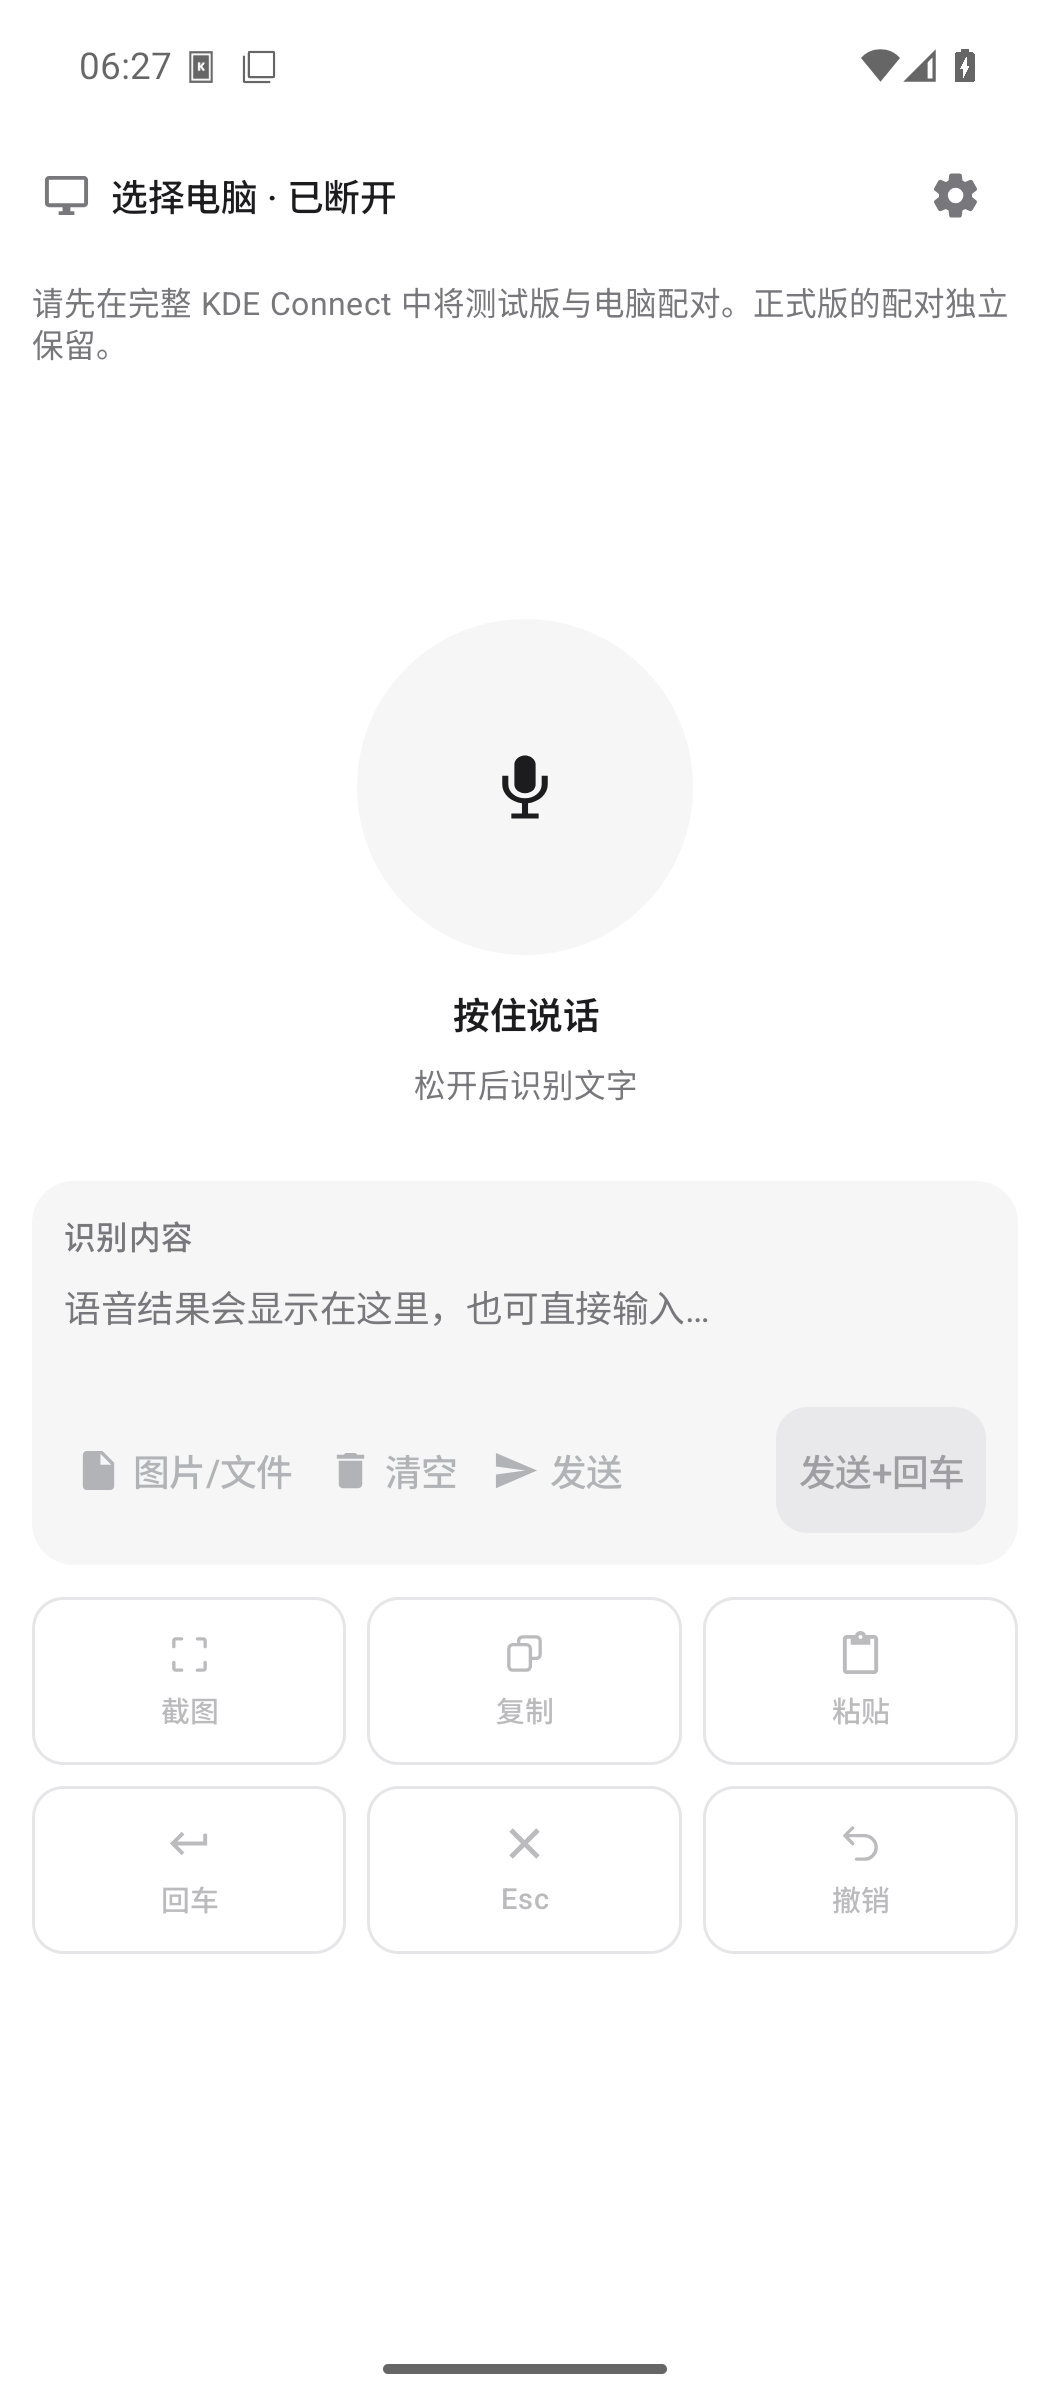
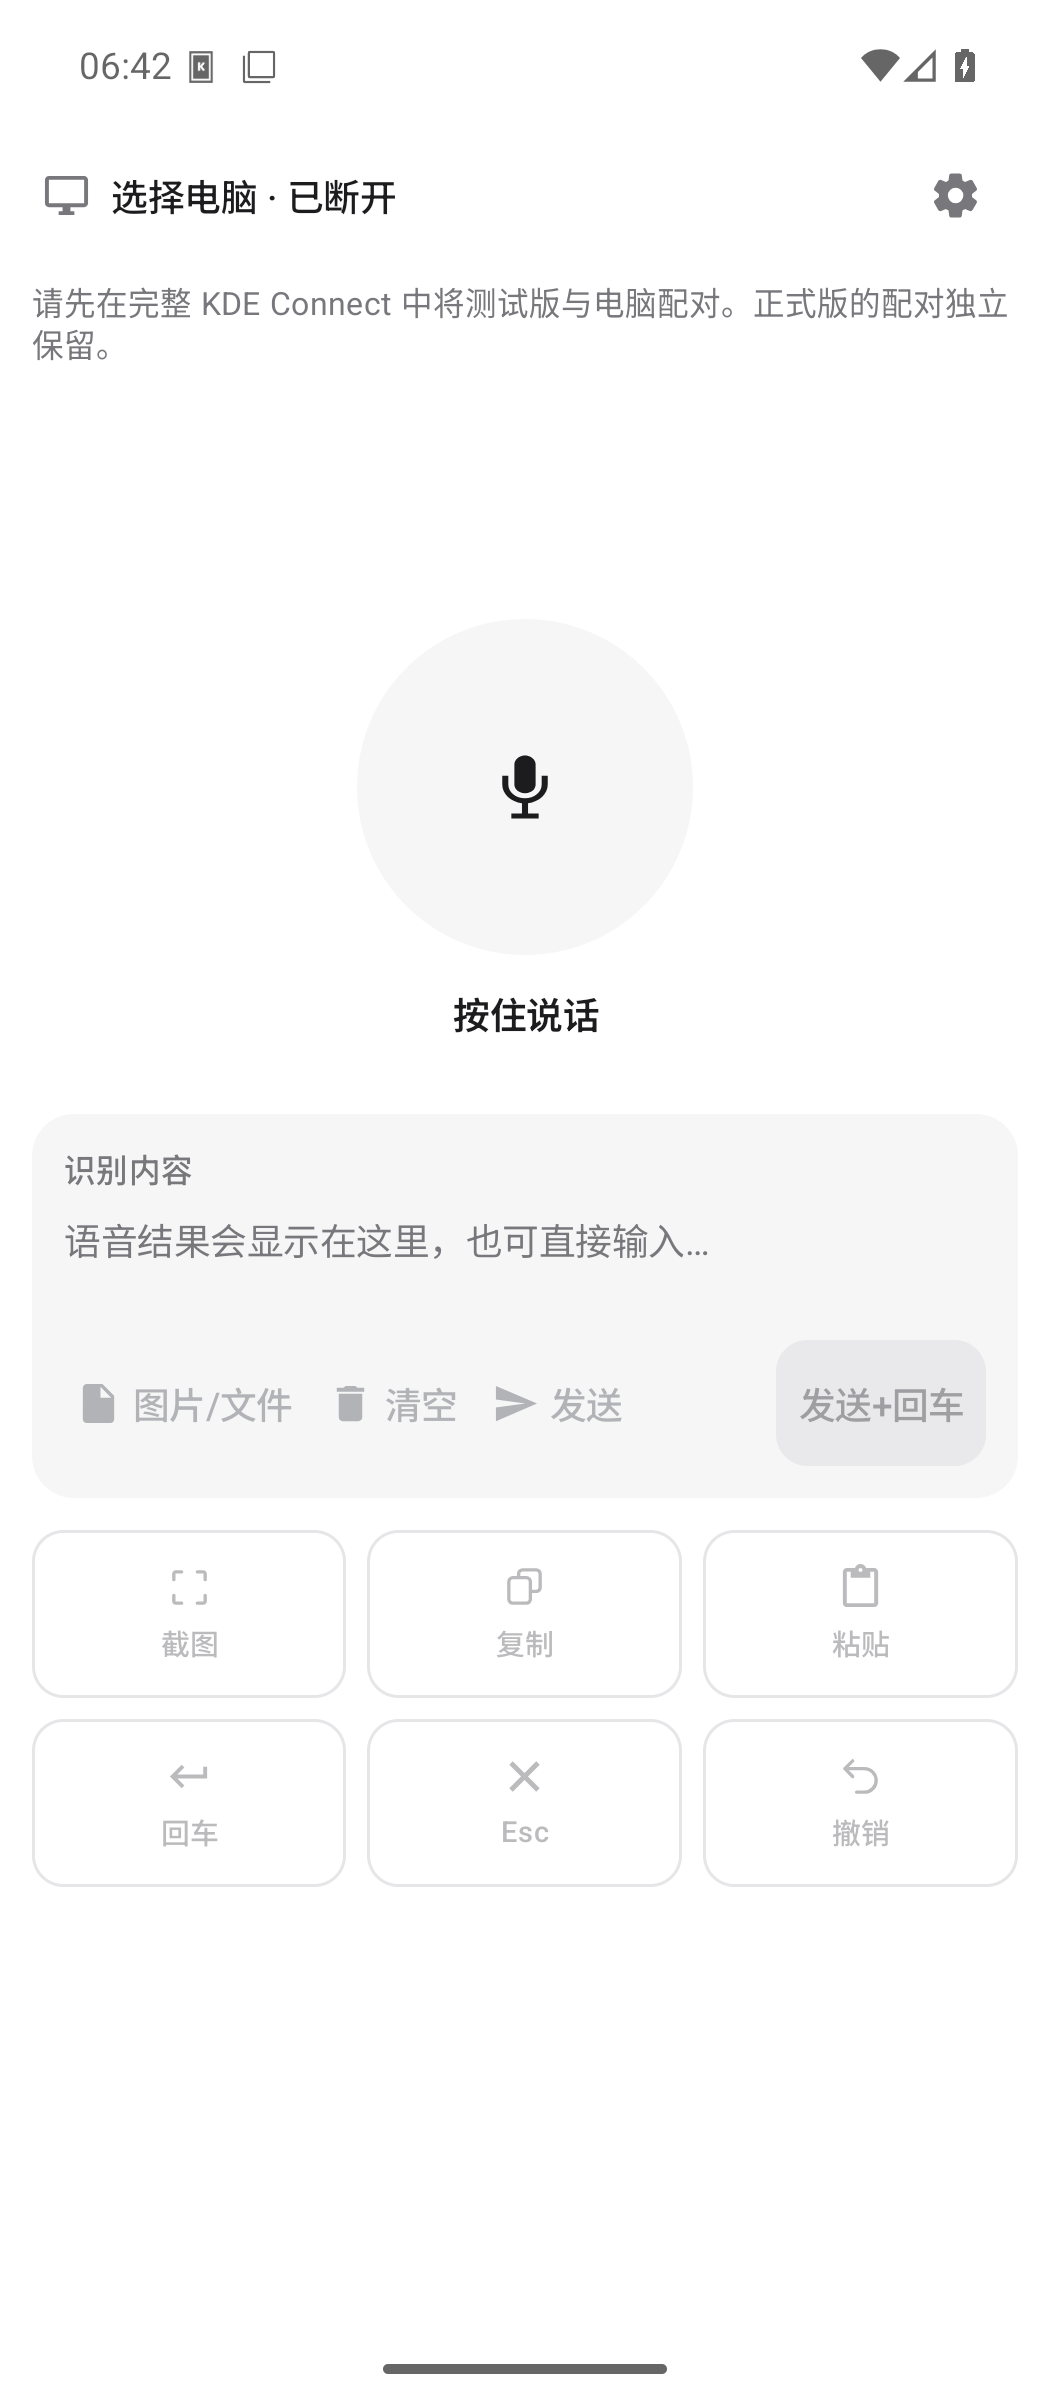
fix(android): keep composer controls above the soft keyboard

diff --git a/src/main/java/org/kde/kdeconnect/ui/lite/LiteRemoteScreen.kt b/src/main/java/org/kde/kdeconnect/ui/lite/LiteRemoteScreen.kt
@@ -17,16 +17,20 @@ import androidx.compose.foundation.layout.Column
 import androidx.compose.foundation.layout.PaddingValues
 import androidx.compose.foundation.layout.Row
 import androidx.compose.foundation.layout.Spacer
+import androidx.compose.foundation.layout.WindowInsets
 import androidx.compose.foundation.layout.fillMaxSize
 import androidx.compose.foundation.layout.fillMaxWidth
 import androidx.compose.foundation.layout.height
 import androidx.compose.foundation.layout.heightIn
 import androidx.compose.foundation.layout.imePadding
+import androidx.compose.foundation.layout.ime
 import androidx.compose.foundation.layout.padding
 import androidx.compose.foundation.layout.safeDrawingPadding
 import androidx.compose.foundation.layout.size
 import androidx.compose.foundation.layout.widthIn
 import androidx.compose.foundation.rememberScrollState
+import androidx.compose.foundation.relocation.BringIntoViewRequester
+import androidx.compose.foundation.relocation.bringIntoViewRequester
 import androidx.compose.foundation.shape.CircleShape
 import androidx.compose.foundation.shape.RoundedCornerShape
 import androidx.compose.foundation.text.BasicTextField
@@ -48,18 +52,24 @@ import androidx.compose.material3.Surface
 import androidx.compose.material3.Text
 import androidx.compose.material3.TextButton
 import androidx.compose.runtime.Composable
+import androidx.compose.runtime.LaunchedEffect
 import androidx.compose.runtime.getValue
+import androidx.compose.runtime.mutableIntStateOf
 import androidx.compose.runtime.mutableStateOf
 import androidx.compose.runtime.remember
 import androidx.compose.runtime.rememberUpdatedState
 import androidx.compose.runtime.setValue
+import androidx.compose.runtime.withFrameNanos
 import androidx.compose.ui.Alignment
 import androidx.compose.ui.Modifier
 import androidx.compose.ui.draw.clip
 import androidx.compose.ui.graphics.Color
 import androidx.compose.ui.graphics.SolidColor
+import androidx.compose.ui.focus.onFocusChanged
 import androidx.compose.ui.input.pointer.pointerInput
+import androidx.compose.ui.layout.onSizeChanged
 import androidx.compose.ui.platform.LocalConfiguration
+import androidx.compose.ui.platform.LocalDensity
 import androidx.compose.ui.res.painterResource
 import androidx.compose.ui.res.stringResource
 import androidx.compose.ui.semantics.Role
@@ -91,11 +101,30 @@ fun LiteRemoteScreen(
 ) {
     var settings by remember { mutableStateOf(false) }
     var devicePicker by remember { mutableStateOf(false) }
+    var editorFocused by remember { mutableStateOf(false) }
+    var composerHeight by remember { mutableIntStateOf(0) }
+    val actionsBringIntoView = remember { BringIntoViewRequester() }
+    val imeInsets = WindowInsets.ime
+    val density = LocalDensity.current
+    val imeBottom = imeInsets.getBottom(density)
+    val keyboardVisible = imeBottom > 0
     val palette = litePalette(isSystemInDarkTheme())
     val active = voice.phase == VoiceInputPhase.STARTING || voice.phase == VoiceInputPhase.LISTENING
     val busy = active || voice.phase == VoiceInputPhase.PROCESSING || model.loadingAttachments || model.sending
     val connected = model.selected?.connected == true
-    val microphoneTopPadding = if (LocalConfiguration.current.screenHeightDp < 640) 48.dp else 96.dp
+    val microphoneTopPadding = when {
+        keyboardVisible -> 8.dp
+        LocalConfiguration.current.screenHeightDp < 640 -> 48.dp
+        else -> 96.dp
+    }
+    LaunchedEffect(editorFocused, imeBottom, composerHeight) {
+        if (editorFocused && keyboardVisible) {
+            // Insets animate before the resized layout is placed. Keep the entire action row visible,
+            // rather than only the text cursor, without fighting normal character-by-character input.
+            withFrameNanos { }
+            if (editorFocused && imeInsets.getBottom(density) > 0) actionsBringIntoView.bringIntoView()
+        }
+    }
     val connectionStatus = stringResource(when {
         connected -> R.string.lite_connected
         model.refreshing -> R.string.lite_connecting
@@ -157,16 +186,17 @@ fun LiteRemoteScreen(
                 onStartVoice, onStopVoice, onCancelVoice)
             Spacer(Modifier.height(28.dp))
             val draftLabel = stringResource(R.string.lite_draft)
-            Surface(modifier = Modifier.fillMaxWidth(), shape = RoundedCornerShape(16.dp),
+            Surface(modifier = Modifier.fillMaxWidth().onSizeChanged { composerHeight = it.height }, shape = RoundedCornerShape(16.dp),
                 color = palette.panel, contentColor = palette.text) {
                 Column(Modifier.padding(12.dp)) {
                     Text(draftLabel, color = palette.secondary, style = MaterialTheme.typography.labelMedium)
                     BasicTextField(value = model.draft, onValueChange = model::editDraft,
                         enabled = !model.loadingAttachments && !model.sending,
-                        minLines = 2, maxLines = 6,
+                        minLines = 2, maxLines = if (keyboardVisible) 3 else 6,
                         textStyle = MaterialTheme.typography.bodyMedium.copy(color = palette.text),
                         cursorBrush = SolidColor(palette.text),
                         modifier = Modifier.fillMaxWidth().heightIn(min = 48.dp).padding(vertical = 8.dp)
+                            .onFocusChanged { editorFocused = it.isFocused }
                             .semantics { contentDescription = draftLabel },
                         decorationBox = { editor ->
                             Box {
@@ -190,7 +220,7 @@ fun LiteRemoteScreen(
                             color = palette.secondary, style = MaterialTheme.typography.bodySmall,
                             modifier = Modifier.padding(vertical = 4.dp))
                     }
-                    BoxWithConstraints(Modifier.fillMaxWidth()) {
+                    BoxWithConstraints(Modifier.fillMaxWidth().bringIntoViewRequester(actionsBringIntoView)) {
                         val compactActions = maxWidth < 320.dp || LocalConfiguration.current.fontScale > 1.3f
                         val sendStyle = if (compactActions) MaterialTheme.typography.labelMedium else MaterialTheme.typography.labelLarge
                         Row(Modifier.fillMaxWidth(), horizontalArrangement = Arrangement.spacedBy(8.dp),
@@ -348,7 +378,7 @@ private fun MicrophoneButton(voice: VoiceInputState, holdToTalk: Boolean, palett
         VoiceInputPhase.ERROR -> voiceErrorMessage(voice.error)
         VoiceInputPhase.IDLE -> if (holdToTalk) R.string.lite_hold_to_talk else R.string.lite_tap_to_talk
     })
-    // One touch region includes both the circle and its labels; drawing and hit bounds stay aligned.
+    // One touch region handles the circle and any active status text.
     Column(horizontalAlignment = Alignment.CenterHorizontally,
         modifier = Modifier.fillMaxWidth().semantics(mergeDescendants = true) {
             role = Role.Button
@@ -384,15 +414,9 @@ private fun MicrophoneButton(voice: VoiceInputState, holdToTalk: Boolean, palett
                 else Icon(painterResource(R.drawable.ic_mic_black), contentDescription = null, tint = palette.text, modifier = Modifier.size(32.dp))
             }
         }
-        Spacer(Modifier.height(12.dp))
         Text(status, textAlign = TextAlign.Center, style = MaterialTheme.typography.bodyMedium,
-            fontWeight = FontWeight.SemiBold,
+            fontWeight = FontWeight.SemiBold, modifier = Modifier.padding(top = 12.dp),
             color = if (voice.phase == VoiceInputPhase.ERROR) MaterialTheme.colorScheme.error else palette.text)
-        if (voice.phase == VoiceInputPhase.IDLE || active) {
-            Text(stringResource(if (holdToTalk) R.string.lite_release_to_recognize else R.string.lite_tap_to_recognize),
-                color = palette.secondary, style = MaterialTheme.typography.bodySmall,
-                textAlign = TextAlign.Center, modifier = Modifier.padding(top = 8.dp))
-        }
         if (busy) {
             val seconds = voice.elapsedMillis / 1000
             Text("%02d:%02d".format(seconds / 60, seconds % 60), color = palette.secondary,

diff --git a/docs/LITE_REMOTE.md b/docs/LITE_REMOTE.md
@@ -110,9 +110,9 @@ $liteAdb = 'D:\Apps\Tools\KDEConnect\toolchain\android-sdk\platform-tools\adb.ex
 
 2026-10-25（北京时间）验证结果：`assembleDebug` 成功，Lite 定向单元测试 **32 / 32 通过**，无失败、错误或跳过。覆盖文字与附件草稿隔离、去重、移除、清空及恢复、离线与插件独立保护、不自动回车、组合发送的文字先于一次 Enter、空稿及输入不可用时不发送、六种快捷键协议字段、语音取消/时序/超时和资源释放。这些测试没有调用手机上的真实语音引擎，也没有向真实 Windows 窗口输入。
 
-APK：`build/outputs/apk/debug/kdeconnect-android-debug.apk`，30,697,784 字节。包名 `org.kde.kdeconnect_tp.debug`，启动入口为 `LiteRemoteLauncherActivity`，按设置进入极简页或完整界面；`apksigner` 验证通过（v1 / v2），目标 SDK 37。已解包核对 `res/raw/license` 与生成文件一致，并包含 NIO 2.1.5 运行库及 GPL Classpath Exception 声明。
+APK：`build/outputs/apk/debug/kdeconnect-android-debug.apk`，30,696,784 字节。包名 `org.kde.kdeconnect_tp.debug`，启动入口为 `LiteRemoteLauncherActivity`，按设置进入极简页或完整界面；`apksigner` 验证通过（v1 / v2），目标 SDK 37。已解包核对 `res/raw/license` 与生成文件一致，并包含 NIO 2.1.5 运行库及 GPL Classpath Exception 声明。
 
[2 lines of base64/hex data omitted]
 
 已在 Xiaomi 14、Android 16 / API 36 上成功安装测试版，手机与 Brook 已配对且可访问，真机极简页显示已连接。系统识别服务为 `com.xiaomi.mibrain.speech/.asr.AsrService`；用户确认预览中的“你好”来自按住话筒识别，并反馈实际试用可以正常使用。各快捷键、Cursor 不自动提交和图片剪贴板仍按下表逐项记录，不能把整体试用反馈作为所有项目均已验收的证据。
 
@@ -130,7 +130,11 @@ SHA256：`1BD2140D6579DE717CB898B67C76A08C841F197435F919116D505D1267CE1CA0`。
 
 识别区底部四个操作保持同一行：左侧三项都有图标，使用相同间距；普通发送为轻量操作，右侧发送+回车用填充按钮突出显示。窄屏或大字体时左侧三项收为 48dp 图标按钮，并保留无障碍名称，为右侧强调按钮留出空间。
 
-话筒、识别框和快捷区按用户触达反馈整体下移：常规屏幕在顶栏下预留 96dp，小屏预留 48dp。圆圈、状态文字和副标题共享同一长按 / 点击手势区域，按住文字也能录音；识别、附件读入或发送处理中禁用再次启动。
+话筒、识别框和快捷区按用户触达反馈整体下移：常规屏幕在顶栏下预留 96dp，小屏预留 48dp。空闲时显示话筒图标和“按住说话”，保留长按 / 点击及读屏操作描述，录音、识别中和错误状态实时显示；“松开后识别文字”副标题已移除。
+
+编辑时若软键盘弹起，上方留白缩为 8dp，输入框最多显示三行并可继续滚动编辑，整条操作行自动滚入键盘上方；键盘关闭或编辑焦点离开时停止自动定位。已在 Xiaomi 14 真机实际软键盘弹起状态确认识别区与四个操作均完整位于键盘上方。
+
+本次界面修正构建通过，用户确认键盘避让效果可用；400dp / 320dp 模拟器也已用实际软键盘及三行草稿检查操作行可见，400dp 下关闭后再次打开键盘正常。320dp 操作行紧贴键盘上沿。仅调整界面与定位，未新增或重跑逻辑单元测试。
 
 新增组合发送、文件插件保护和附件草稿测试通过。新版已更新手机测试版；附件实际接收及组合操作在真实 Windows 应用中的最终效果仍需单独核对。
 
